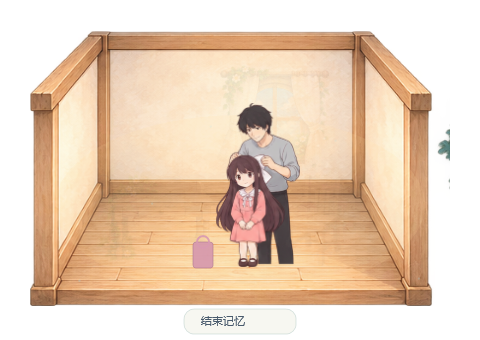
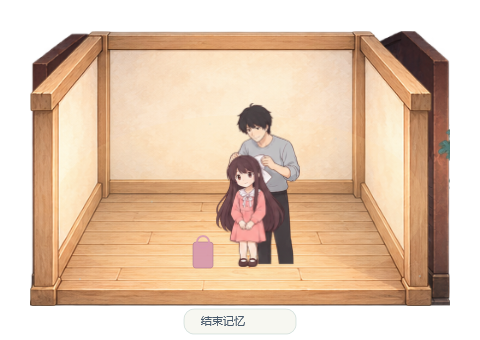
Restore preserved v0.2.0-preview.2 local source snapshot for archival publication
Recovered on 2026-10-15 from the original source ZIP. This is an archival recovery commit, not an original historical Git commit.
Original source ZIP SHA256: 5f0940a03c4b3eeb09e2c33b8816a2a0c285f2241c96ac19383efc8d4c0878ad
Original EXE SHA256: 53a71685884b109eb5de8730db801bb2e80471de90e8e03db09ad6dc27eb510f

diff --git a/src/Scene.cs b/src/Scene.cs
@@ -97,6 +97,10 @@ public sealed class ResourceManifest
     public string SwingAtlas { get; set; } = "rin/swing-life.png";
     public string FamilyAtlas { get; set; } = "rin/family-memory.png";
     public double[][] SceneRegions { get; set; } = Atlas.Grid(3,2);
+    public string BedroomAtlas { get; set; } = "world/bedroom.png";
+    public double[][] BedroomRegions { get; set; } = Atlas.Grid(3,2);
+    public double[] BedSeatAnchor { get; set; } = new[]{.48,.57};
+    public double[] BedroomWindowPane { get; set; } = new[]{.24,.035,.48,.91};
     public double[][] SwingRegions { get; set; } = Array.Empty<double[]>();
     public double[][] FamilyRegions { get; set; } = Array.Empty<double[]>();
     public double[][] SwingHips { get; set; } = Array.Empty<double[]>();
@@ -200,13 +204,13 @@ public sealed partial class Scene : FrameworkElement
         actorHits.Clear(); lifeHits.Clear(); doorRect=Rect.Empty;
         string theme = World.Theme(save.Settings, DateTime.Now.Hour);
         bool night = theme is "夜晚" or "深夜";
-        bool ideal = save.SceneId == "outdoor" && Time < IdealUntil && !behavior.Life.Active;
+        bool ideal = save.SceneId is "outdoor" or "cloud" && Time < IdealUntil && !behavior.Life.Active;
         var layout = ideal ? ObjectDef.All.Select(World.Default).ToList() : save.Layout.Where(p => !p.Hidden).ToList();
         foreach (var p in layout.OrderBy(p => Scenes.Foundation(p.Id) ? -3 : p.Id is "grass" ? -2 : p.Id is "path" ? -1 : 0))
         {
             if (!ideal && !World.Available(save).Any(d => d.Id == p.Id)) continue;
             var d = ObjectDef.Get(p.Id); if (p.Id == "swingSeat") continue;
-            var sprite = p.Id == "bigTree" ? matureTree.Sprites[0] : Scenes.ExtraObjects.Any(e=>e.Id == p.Id) ? environments.Sprites[d.Tile] : world.Sprites[d.Tile];
+            var sprite = ObjectSprite(d);
             double ox = 0, oy = 0, angle = 0;
             if (p.Id == "cloud") ox = Math.Sin(Time * .13) * 8;
             if (p.Id == "bird") { ox = Math.Sin(Time * .65) * 14; oy = Math.Sin(Time * 1.2) * 3; }
@@ -221,13 +225,15 @@ public sealed partial class Scene : FrameworkElement
             if (p.Id is "platform" or "grass" or "path" or "meadowBase" or "roomBase" or "bigTree") { width = d.Width; height = d.Height; }
             var rect = new Rect(p.X - width / 2 + ox, p.Y - height + oy, width, height);
             double appear = births.TryGetValue(p.Id, out var born) ? Math.Clamp((Time - born) / 2.5, 0, 1) : 1;
-            double visibleOpacity=appear*(save.SceneId == "indoor" && !Scenes.Foundation(p.Id) ? 1-.9*behavior.Life.Atmosphere : 1);
+            double visibleOpacity=appear*(save.SceneId == "indoor" && !Scenes.Foundation(p.Id) ? 1-behavior.Life.Atmosphere : 1);
             dc.PushOpacity(visibleOpacity);
             dc.PushTransform(new ScaleTransform(.85 + .15 * appear, .85 + .15 * appear, p.X, p.Y));
             dc.PushTransform(new RotateTransform(angle, p.X, p.Y));
             if (p.Id == "stars") dc.PushOpacity(night || ideal || audio.IsShelter ? .95 : .28);
             else dc.PushOpacity(theme == "深夜" ? .7 : night ? .79 : 1);
-            dc.DrawImage(sprite.Image, rect); dc.Pop(); dc.Pop(); dc.Pop(); dc.Pop(); if (visibleOpacity > .5) hits[p.Id] = (rect, sprite);
+            dc.DrawImage(sprite.Image, rect);
+            if (p.Id == "roomBase" && behavior.Life.Atmosphere > 0) { dc.PushOpacity(behavior.Life.Atmosphere); dc.DrawImage(environments.Sprites[1].Image,rect); dc.Pop(); }
+            dc.Pop(); dc.Pop(); dc.Pop(); dc.Pop(); if (visibleOpacity > .5) hits[p.Id] = (rect, sprite);
             if (p.Id == "house" && save.SceneId == "outdoor") doorRect=new Rect(rect.X+rect.Width*.26,rect.Y+rect.Height*.52,rect.Width*.15,rect.Height*.39);
             if (p.Id is "lamp" or "house" && (night || theme == "傍晚" || FeedbackObject == p.Id && Time < FeedbackUntil))
             {
@@ -300,10 +306,11 @@ public sealed partial class Scene : FrameworkElement
             // wooden seat rather than aligning her sandals with the chair legs.
             if (action.Id is "benchSit" or "roomRest" && (Time < IdealUntil || save.Layout.Any(p=>p.Id == action.ObjectId && !p.Hidden) && World.Available(save).Any(d=>d.Id == action.ObjectId)))
             {
-                var bench=ObjectDef.Get(action.ObjectId!); var image=action.Id == "roomRest" ? environments.Sprites[bench.Tile] : world.Sprites[bench.Tile];
+                var bench=ObjectDef.Get(action.ObjectId!); var image=ObjectSprite(bench);
                 double k=Math.Min(bench.Width/image.Width,bench.Height/image.Height);
-                double seatX=behavior.X+image.Width*k*(manifest.BenchSeatAnchor[0]-.5);
-                double seatY=behavior.Y-image.Height*k*(1-(action.Id == "roomRest" ? .59 : manifest.BenchSeatAnchor[1]));
+                var seatAnchor=action.Id == "roomRest" ? manifest.BedSeatAnchor : manifest.BenchSeatAnchor;
+                double seatX=behavior.X+image.Width*k*(seatAnchor[0]-.5);
+                double seatY=behavior.Y-image.Height*k*(1-seatAnchor[1]);
                 rect=new Rect(seatX-rect.Width*manifest.SeatedContactAnchor[0],seatY-rect.Height*manifest.SeatedContactAnchor[1],rect.Width,rect.Height);
             }
         }
@@ -388,7 +395,8 @@ public sealed partial class Scene : FrameworkElement
         if (indoors) {
             if (!hits.TryGetValue("window",out var window)) return;
             var r=window.Rect;
-            dc.PushClip(new RectangleGeometry(new Rect(r.X+r.Width*.28,r.Y+r.Height*.26,r.Width*.44,r.Height*.51)));
+            var pane=manifest.BedroomWindowPane;
+            dc.PushClip(new RectangleGeometry(new Rect(r.X+r.Width*pane[0],r.Y+r.Height*pane[1],r.Width*pane[2],r.Height*pane[3])));
         }
         switch (save.Settings.Weather)
         {

diff --git a/tests/SceneTests.cs b/tests/SceneTests.cs
@@ -10,7 +10,7 @@ foreach (var d in Scenes.All.Where(d=>d.Day > 0)) {
     Check(s.GrowthLayout.Count == 1 && s.Created.Count == 0,"解锁场景不覆盖屋外布局或强制创造");
 }
 var save=WithDays(20); var outdoor=save.GrowthLayout[0]; outdoor.X=154;
-foreach (var d in Scenes.All.Where(d=>d.Id != "outdoor")) {
+foreach (var d in Scenes.All.Where(d=>d.Id is not "outdoor" and not "cloud")) {
     Scenes.Switch(save,d.Id); var p=save.Layout.First(p=>!Scenes.Foundation(p.Id)); p.X=410; p.Hidden=true;
     save.Settings.FreeMode=true; Scenes.Switch(save,d.Id); Check(save.Layout.Any(p=>p.X != 410 && !p.Hidden),d.Name+"自由布局独立");
     save.Settings.FreeMode=false; Check(save.Layout.Any(p=>p.X == 410 && p.Hidden),d.Name+"成长布局原样恢复");
@@ -19,6 +19,16 @@ Scenes.Switch(save,"outdoor"); Check(save.Layout[0].X == 154,"切回屋外保留
 save.Settings.FreeMode=true; Scenes.Switch(save,"swingTree"); save.Settings.FreeMode=false; Check(save.SceneId == "outdoor","两模式当前场景独立保存");
 Check(!Scenes.MemoriesUnlocked(WithDays(19)) && Scenes.MemoriesUnlocked(WithDays(20)),"父女记忆在秋千节点同时解锁");
 var free=WithDays(0); free.Settings.FreeMode=true; foreach (var d in Scenes.All) Check(Scenes.Switch(free,d.Id),"自由模式开放"+d.Name);
+foreach(int days in new[]{0,1,2,6,7,9,10,19,20}) {
+    var fresh=WithDays(days);
+    var ids=Scenes.All.Where(d=>Scenes.Unlocked(fresh,d.Id)).Select(d=>d.Id).ToArray();
+    var expected=days>=20 ? new[]{"cloud","indoor","outdoor","meadow","swingTree"} : days>=10 ? new[]{"cloud","indoor","outdoor","meadow"} : days>=7 ? new[]{"cloud","indoor","outdoor"} : days>=2 ? new[]{"cloud","indoor"} : new[]{"cloud"};
+    Check(ids.SequenceEqual(expected),days+"日依次开放云台/屋内/院子/室外/秋千");
+    Check(fresh.SceneId == "cloud","解锁新场景不强制切换");
+}
+var early=WithDays(2); Check(Scenes.Switch(early,"indoor") && World.Available(early).Count() == 5,"第2日卧室家具全部可见");
+Scenes.Switch(early,"cloud"); Check(World.Available(early).Single().Id == "platform","云台阶段不混入院子景物");
+early.Layout[0].X=87; early.Settings.FreeMode=true; Scenes.Switch(early,"cloud"); Check(early.Layout[0].X == 240,"云台两模式布局独立"); early.Settings.FreeMode=false; Check(early.Layout[0].X == 87,"成长云台位置恢复");
 void Advance(Behavior b,double seconds,SaveData s) { for(double t=0;t<seconds;t+=.01) b.Tick(Math.Min(.01,seconds-t),s,false); }
 void Until(Behavior b,string phase,SaveData s) { for(int i=0;i<12000 && b.Life.Phase != phase;i++) b.Tick(.01,s,false); Check(b.Life.Phase == phase,"时间轴到达 "+phase); }
 Scenes.Switch(save,"swingTree"); var layout=JsonSerializer.Serialize(save.Layout);
@@ -55,6 +65,13 @@ try {
     string legacy="{\"Version\":1,\"Settings\":{},\"GrowthLayout\":[{\"Id\":\"platform\",\"X\":154,\"Y\":300}],\"FreeLayout\":[{\"Id\":\"house\",\"X\":77,\"Y\":240,\"Hidden\":true}],\"CompanionDates\":[\"2026-01-01\"]}";
     Directory.CreateDirectory(directory); File.WriteAllText(storage.FilePath,legacy); var migrated=storage.Load();
     Check(migrated.Days == 1 && migrated.GrowthLayout[0].X == 154 && migrated.FreeLayout[0].Hidden,"旧JSON完整保留成长与两布局");
+    Check(migrated.SceneId == "outdoor" && Scenes.Unlocked(migrated,"outdoor"),"旧版提前院子访问权保留");
+    var oldRoom=WithDays(2); oldRoom.GrowthSceneLayouts["indoor"]=new(){new(){Id="roomBase",X=240,Y=306},new(){Id="desk",X=411,Y=215,Hidden=true},new(){Id="window",X=275,Y=168},new(){Id="chair",X=313,Y=266},new(){Id="lamp",X=109,Y=248,Hidden=true}}; oldRoom.IndoorStyleVersion=0;
+    Scenes.Switch(oldRoom,"indoor"); storage.Write(oldRoom); var upgrade=storage.Load(); var table=upgrade.Layout.First(p=>p.Id == "desk");
+    Check(table.X == 411 && table.Y == 215 && table.Hidden,"重绘卧室保留自定义位置与隐藏状态");
+    Check(upgrade.Layout.Any(p=>p.Id == "chair" && p.X == 166 && p.Y == 279),"旧默认木椅位置迁移为床铺布局");
+    Check(upgrade.Layout.Any(p=>p.Id == "lamp" && p.Hidden) && !World.Available(upgrade).Any(d=>d.Id == "lamp"),"旧灯布置保留但不混入原片卧室");
+    var roomSnapshot=JsonSerializer.Serialize(upgrade.Layout); World.Initialize(upgrade); Check(JsonSerializer.Serialize(upgrade.Layout) == roomSnapshot,"卧室迁移仅执行一次");
     storage.Write(save); var reloaded=storage.Load(); Check(reloaded.SceneId == save.SceneId && JsonSerializer.Serialize(reloaded.Layout) == JsonSerializer.Serialize(save.Layout),"新多场景存档往返");
     storage.Write(save); File.WriteAllText(storage.FilePath,"{broken"); Check(storage.Load().SceneId == save.SceneId,"多场景备份恢复");
 } finally { Directory.Delete(directory,true); }

diff --git a/src/Scenes.cs b/src/Scenes.cs
@@ -3,19 +3,20 @@ namespace LittleShelter;
 public sealed record SceneDef(string Id, string Name, int Day);
 public static class Scenes
 {
-    public static readonly SceneDef[] All = { new("outdoor","屋外",0), new("meadow","草坡",10), new("indoor","屋内",14), new("swingTree","树下秋千",20) };
+    public static readonly SceneDef[] All = { new("cloud","云台",0), new("indoor","屋内",2), new("outdoor","屋外院子",7), new("meadow","室外草坡",10), new("swingTree","树下秋千",20) };
     public static readonly ObjectDef[] ExtraObjects = {
-        new("meadowBase","草坡",10,0,420,125,240,305), new("roomBase","房间",14,1,420,275,240,306),
-        new("bigTree","树荫",20,2,420,278,240,304), new("desk","桌子",14,3,125,87,160,261),
-        new("window","窗户",14,4,116,118,275,168), new("chair","木椅",14,5,67,91,313,266),
+        new("meadowBase","草坡",10,0,420,125,240,305), new("roomBase","卧室",2,1,420,275,240,306),
+        new("bigTree","树荫",20,2,420,278,240,304), new("desk","床边圆几",2,3,54,60,274,278),
+        new("window","高窗",2,4,94,154,106,190), new("chair","粉色床铺",2,5,181,123,166,279),
+        new("cabinet","柜子与小熊",2,6,79,125,358,273),
         new("swingSeat","木座秋千",20,-1,65,8,300,260)
     };
-    public static bool Unlocked(SaveData s,string id) => All.Any(d=>d.Id == id && (s.Settings.FreeMode || s.Days >= d.Day));
+    public static bool Unlocked(SaveData s,string id) => All.Any(d=>d.Id == id && (s.Settings.FreeMode || s.Days >= d.Day || id == "outdoor" && s.Settings.LegacyOutdoorAccess));
     public static bool MemoriesUnlocked(SaveData s) => s.Settings.FreeMode || s.Days >= 20;
-    public static string Current(SaveData s) { var id=s.Settings.FreeMode ? s.Settings.FreeScene : s.Settings.GrowthScene; return Unlocked(s,id) ? id : "outdoor"; }
+    public static string Current(SaveData s) { var id=s.Settings.FreeMode ? s.Settings.FreeScene : s.Settings.GrowthScene; return Unlocked(s,id) ? id : "cloud"; }
     public static IEnumerable<ObjectDef> Objects(string id) => id switch {
-        "meadow" => Pick("meadowBase","flower","cloud","bird","stars"),
-        "indoor" => Pick("roomBase","desk","window","chair","lamp"),
+        "cloud" => Pick("platform"), "meadow" => Pick("meadowBase","flower","cloud","bird","stars"),
+        "indoor" => Pick("roomBase","desk","window","chair","cabinet"),
         "swingTree" => Pick("bigTree","swingSeat","flower","bird","stars"), _ => ObjectDef.All };
     private static IEnumerable<ObjectDef> Pick(params string[] ids) => ids.Select(ObjectDef.Get);
     public static bool Foundation(string id) => id is "platform" or "meadowBase" or "roomBase" or "bigTree" or "swingSeat";
@@ -43,10 +44,20 @@ public static class Scenes
     }).ToList();
     public static void Initialize(SaveData s) {
         s.GrowthSceneLayouts ??= new(); s.FreeSceneLayouts ??= new();
+        if (s.IndoorStyleVersion < 1) {
+            foreach(var map in new[]{s.GrowthSceneLayouts,s.FreeSceneLayouts}) if (map.TryGetValue("indoor",out var room)) {
+                foreach(var p in room) {
+                    var old=p.Id switch { "desk"=>(160,261), "window"=>(275,168), "chair"=>(313,266), _=>(-1,-1) };
+                    if (p.X == old.Item1 && p.Y == old.Item2) { var d=ObjectDef.Get(p.Id); p.X=d.X; p.Y=d.Y; }
+                }
+            }
+            s.IndoorStyleVersion=1;
+        }
         foreach (var d in All.Where(d=>d.Id != "outdoor")) {
             if (!s.FreeSceneLayouts.ContainsKey(d.Id)) s.FreeSceneLayouts[d.Id]=Defaults(d.Id);
             if (s.Days >= d.Day && !s.GrowthSceneLayouts.ContainsKey(d.Id)) s.GrowthSceneLayouts[d.Id]=Defaults(d.Id);
         }
+        foreach(var map in new[]{s.GrowthSceneLayouts,s.FreeSceneLayouts}) if (map.TryGetValue("indoor",out var room) && !room.Any(p=>p.Id == "cabinet")) room.Add(World.Default(ObjectDef.Get("cabinet")));
     }
     public static bool Switch(SaveData s,string id) {
         if (!Unlocked(s,id)) return false;

diff --git a/src/Storage.cs b/src/Storage.cs
@@ -20,6 +20,13 @@ public sealed class Storage
                 if (document.RootElement.ValueKind != JsonValueKind.Object || !document.RootElement.TryGetProperty("Version", out _)) continue;
                 var save = document.RootElement.Deserialize<SaveData>(Options);
                 if (save == null || save.Version != 1 || save.Settings == null || save.DailySeconds == null || save.CompanionDates == null || save.ChoiceCounts == null || save.GrowthLayout == null || save.FreeLayout == null || save.Created == null || save.GrowthLayout.Any(p => p == null) || save.FreeLayout.Any(p => p == null)) continue;
+                if (document.RootElement.TryGetProperty("Settings",out var oldSettings)) {
+                    bool hasScene=oldSettings.TryGetProperty("GrowthScene",out _);
+                    if (save.Settings.GrowthScene == "outdoor" || !hasScene) {
+                        save.Settings.LegacyOutdoorAccess=true;
+                        if (!hasScene) save.Settings.GrowthScene="outdoor";
+                    }
+                }
                 Sanitize(save); World.Initialize(save); return save;
             }
             catch (Exception e) when (e is IOException or JsonException or UnauthorizedAccessException) { }
@@ -52,7 +59,7 @@ public sealed class Storage
             {
                 if (!Scenes.All.Any(d=>d.Id == key && key != "outdoor") || map[key] == null) { map.Remove(key); continue; }
                 var list=map[key];
-                list.RemoveAll(p=>p == null || !Scenes.Objects(key).Any(d=>d.Id == p.Id) || !double.IsFinite(p.X) || !double.IsFinite(p.Y));
+                list.RemoveAll(p=>p == null || !(Scenes.Objects(key).Any(d=>d.Id == p.Id) || key == "indoor" && p.Id == "lamp") || !double.IsFinite(p.X) || !double.IsFinite(p.Y));
                 foreach (var p in list) { p.X=Math.Clamp(p.X,25,455); p.Y=Math.Clamp(p.Y,45,310); if (Scenes.Foundation(p.Id)) p.Hidden=false; }
                 foreach (var d in Scenes.Objects(key).Where(d=>Scenes.Foundation(d.Id))) if (!list.Any(p=>p.Id == d.Id)) list.Add(World.Default(d));
                 var distinct=list.DistinctBy(p=>p.Id).ToList(); list.Clear(); list.AddRange(distinct);
@@ -60,6 +67,6 @@ public sealed class Storage
         }
         CleanScenes(s.GrowthSceneLayouts); CleanScenes(s.FreeSceneLayouts);
         if (!Scenes.All.Any(d=>d.Id == s.Settings.FreeScene)) s.Settings.FreeScene="outdoor";
-        if (!Scenes.All.Any(d=>d.Id == s.Settings.GrowthScene && d.Day <= s.Days)) s.Settings.GrowthScene="outdoor";
+        if (!Scenes.Unlocked(s,s.Settings.GrowthScene)) s.Settings.GrowthScene="cloud";
     }
 }

diff --git a/tests/SceneVisualTests.cs b/tests/SceneVisualTests.cs
@@ -76,6 +76,19 @@ internal static class SceneVisualTests
         Check(actor.Life.BeginMemory(save),"memory while swinging"); Until("fadeOut"); Step(.7); Render("swing-recall-from-seated");
         Check(actor.Life.RecallPose>=100,"memory fade retains stopped loop pose"); actor.Life.Cancel(); Render("memory-cancel-restored");
         Scenes.Switch(save,"indoor"); scene.ResetLifeVisuals(); var chair=save.Layout.First(p=>p.Id == "chair"); actor.X=chair.X; actor.Y=chair.Y; actor.Start("roomRest"); Render(); Step(.5); Render("indoor-chair-rest");
+        var manifest=System.Text.Json.JsonSerializer.Deserialize<ResourceManifest>(File.ReadAllText(Path.Combine(AppContext.BaseDirectory,"assets/manifest.json")))!;
+        var bedroom=new Atlas(Path.Combine(AppContext.BaseDirectory,"assets",manifest.BedroomAtlas),manifest.BedroomRegions); var bed=bedroom.Sprites[1]; var bedDef=ObjectDef.Get("chair");
+        double bedScale=Math.Min(bedDef.Width/bed.Width,bedDef.Height/bed.Height);
+        double hipX=chair.X+bed.Width*bedScale*(manifest.BedSeatAnchor[0]-.5), hipY=chair.Y-bed.Height*bedScale*(1-manifest.BedSeatAnchor[1]);
+        foreach(bool mirror in new[]{false,true}) foreach(double dpi in new[]{1.0,1.5,2.0}) {
+            actor.Start("roomRest",chair.X+(mirror ? -1 : 1)); scene.ResetLifeVisuals(); Render(); Step(.4);
+            var frame=Render("bed-rest-"+mirror+"-"+dpi.ToString("0.0",System.Globalization.CultureInfo.InvariantCulture),dpi);
+            Check(scene.Hit(new Point(hipX,hipY-12)) == "rin","bed mattress hip registration and alpha hit");
+            byte[] pixel=new byte[4]; frame.CopyPixels(new Int32Rect((int)(hipX*dpi),(int)((hipY-12)*dpi),1,1),pixel,4,0); Check(pixel[3]>=240,"bed rest remains opaque at mattress contact");
+        }
+        Scenes.Switch(save,"cloud"); actor.Life.Cancel(); Scenes.PlaceActor(save,actor); actor.Start("stand"); scene.ResetLifeVisuals(); var cloudLayout=System.Text.Json.JsonSerializer.Serialize(save.Layout);
+        scene.IdealUntil=time+5; Render("cloud-ideal"); Check(System.Text.Json.JsonSerializer.Serialize(save.Layout) == cloudLayout,"cloud ideal never overwrites initial layout");
+        scene.IdealUntil=0; Render("cloud-restored"); Check(save.Layout.Single().Id == "platform","cloud ideal restores only its platform");
         Console.WriteLine("PASS: "+checks+" production scene render/rope/contact/cancel/DPI checks. "+output);
     }
 }

diff --git a/src/SceneLife.cs b/src/SceneLife.cs
@@ -7,7 +7,7 @@ namespace LittleShelter;
 
 public sealed partial class Scene
 {
-    private Atlas environments=null!, swingPoses=null!, familyPoses=null!, matureTree=null!, swingLoop=null!;
+    private Atlas environments=null!, bedroom=null!, swingPoses=null!, familyPoses=null!, matureTree=null!, swingLoop=null!;
     private readonly List<(Rect Rect,Atlas.Sprite Sprite,Transform Transform,double Hinge,double LegShear)> lifeHits=new();
     private Rect doorRect=Rect.Empty, memoryControl=Rect.Empty, seatHit=Rect.Empty;
     private Transform? seatTransform;
@@ -18,6 +18,8 @@ public sealed partial class Scene
     private void LoadLifeAssets(string root)
     {
         environments=new Atlas(Path.Combine(root,manifest.ScenesAtlas),manifest.SceneRegions);
+        bedroom=new Atlas(Path.Combine(root,manifest.BedroomAtlas),manifest.BedroomRegions);
+        if (bedroom.Sprites.Length != 5) throw new InvalidDataException("卧室资源不完整");
         matureTree=new Atlas(Path.Combine(root,"world/swing-tree.png"),Atlas.Grid(1,1));
         swingPoses=new Atlas(Path.Combine(root,manifest.SwingAtlas),manifest.SwingRegions);
         familyPoses=new Atlas(Path.Combine(root,manifest.FamilyAtlas),manifest.FamilyRegions);
@@ -26,6 +28,11 @@ public sealed partial class Scene
             throw new InvalidDataException("秋千/父女记忆姿势与锚点不完整");
         if (swingLoop.Sprites.Length != 18 || manifest.LoopHips.Length != 18 || manifest.LoopHands.Length != 18) throw new InvalidDataException("细化摆荡帧不完整");
     }
+    private Atlas.Sprite ObjectSprite(ObjectDef d) => d.Id switch {
+        "bigTree"=>matureTree.Sprites[0], "roomBase"=>bedroom.Sprites[0], "chair"=>bedroom.Sprites[1],
+        "window"=>bedroom.Sprites[2], "desk"=>bedroom.Sprites[3], "cabinet"=>bedroom.Sprites[4],
+        _=>Scenes.ExtraObjects.Any(e=>e.Id == d.Id) ? environments.Sprites[d.Tile] : world.Sprites[d.Tile]
+    };
     public void ResetLifeVisuals()
     {
         lastDrawKey=null; lastDrawSprite=null; oldDrawSprite=null;

diff --git a/src/Models.cs b/src/Models.cs
@@ -18,8 +18,9 @@ public sealed class Settings
     public double Left { get; set; } = double.NaN;
     public double Top { get; set; } = double.NaN;
     public double InteractionMinutes { get; set; } = 35;
-    public string GrowthScene { get; set; } = "outdoor";
+    public string GrowthScene { get; set; } = "cloud";
     public string FreeScene { get; set; } = "outdoor";
+    public bool LegacyOutdoorAccess { get; set; }
 }
 
 public sealed class Placement
@@ -45,6 +46,7 @@ public sealed class SaveData
     public HashSet<string> Created { get; set; } = new();
     public long Interactions { get; set; }
     public double MusicSeconds { get; set; }
+    public int IndoorStyleVersion { get; set; }
     [JsonIgnore] public int Days => CompanionDates.Count;
     [JsonIgnore] public string SceneId => Scenes.Current(this);
     [JsonIgnore] public List<Placement> Layout => Scenes.Layout(this);
@@ -100,7 +102,7 @@ public static class Actions
         new("swingLife", "树下轻荡秋千", 0, 34, "special", "swingSeat"),
         new("windowWatch", "窗边看天气", 2, 18, "context", "window"),
         new("deskTablet", "桌边使用平板", 4, 20, "context", "desk"),
-        new("roomRest", "屋内坐着休息", 7, 22, "context", "chair")
+        new("roomRest", "床沿安静休息", 7, 22, "context", "chair")
     };
     public static ActionDef Get(string id) => All.First(a => a.Id == id);
 }

diff --git a/scripts/register-scenes.py b/scripts/register-scenes.py
@@ -23,4 +23,8 @@ m['LoopAtlas']='rin/swing-loop.png'
 m['LoopRegions']=[[loopcols[c]/1536,looprows[r]/1024,(loopcols[c+1]-loopcols[c])/1536,(looprows[r+1]-looprows[r])/1024] for r in range(1,4) for c in range(6)]
 m['LoopHips']=[[x-loopcols[c],y-looprows[r]] for r,y in enumerate([0,445,708,962]) if r>0 for c,x in enumerate([126,380,633,887,1142,1398])]
 m['LoopHands']=[[x-loopcols[c],y-looprows[r],x+98-loopcols[c],y-looprows[r]] for r,y in enumerate([0,369,637,885]) if r>0 for c,x in enumerate([76,329,583,837,1093,1347])]
+m['BedroomAtlas']='world/bedroom.png'
+m['BedroomRegions']=[[x/1536,y/1024,w/1536,h/1024] for x,y,w,h in [[0,0,666,512],[666,0,519,512],[1185,0,351,512],[0,512,575,512],[575,512,365,512]]]
+m['BedSeatAnchor']=[.48,.57]
+m['BedroomWindowPane']=[.24,.035,.48,.91]
 path.write_text(json.dumps(m,ensure_ascii=False,indent=2)+'\n',encoding='utf-8')

diff --git a/src/PetWindow.cs b/src/PetWindow.cs
@@ -208,7 +208,7 @@ public sealed class PetWindow : Window
         if (!World.Available(Save).Any(d=>d.Id == id)) return;
         Behavior.Create(id, Audio.Level > .12); Scene.ChoiceUntil = 0;
     }
-    public void ShowIdeal() { if (Behavior.Life.Active || Save.SceneId != "outdoor") return; Scene.IdealUntil = runtime + 45; Scene.ShelterUntil = runtime + 55; Behavior.Start("knees"); Scene.Bubble = "这里有我们的天空。"; Scene.BubbleUntil = runtime + 6; }
+    public void ShowIdeal() { if (Behavior.Life.Active || Save.SceneId is not "outdoor" and not "cloud") return; Scene.IdealUntil = runtime + 45; Scene.ShelterUntil = runtime + 55; Behavior.Start("knees"); Scene.Bubble = "这里有我们的天空。"; Scene.BubbleUntil = runtime + 6; }
     public void PreviewAction(string id)
     {
         if (id is "swingLife" or "ropeHold") { Swing(); return; }

diff --git a/tests/Program.cs b/tests/Program.cs
@@ -24,6 +24,7 @@ Check(save.DailySeconds["2026-10-11"] == 1 && save.DailySeconds["2026-10-10"] ==
 foreach (int day in new[] { 2, 3, 5, 7, 10, 14, 20 })
 {
     var s = new SaveData { CompanionDates = Enumerable.Range(0, day).Select(i => start.AddDays(i).ToString("yyyy-MM-dd")).ToList() }; World.Initialize(s);
+    s.Settings.LegacyOutdoorAccess=true; Scenes.Switch(s,"outdoor"); // existing yard item schedule remains compatible
     Check(World.Available(s).All(d => d.Day <= day) && World.Available(s).Any(d => d.Day == day), "第" + day + "天的解锁边界");
 }
 save.Settings.FreeMode = true; World.Create(save, "house"); save.FreeLayout.First(p => p.Id == "house").X = 42;

diff --git a/tests/VisualTests.cs b/tests/VisualTests.cs
@@ -135,6 +135,7 @@ internal static class VisualTests
         {
             var save=new SaveData(); save.Settings.FreeMode=free; save.Settings.Music=false; save.Settings.Theme="白天";
             save.CompanionDates.AddRange(Enumerable.Range(1,7).Select(d=>$"2026-09-{d:00}")); World.Initialize(save);
+            Scenes.Switch(save,"outdoor");
             save.Layout.Clear(); var bench=World.Default(ObjectDef.Get("bench")); save.Layout.Add(bench);
             // Deliberately move the chair away from its default location.
             bench.X=mirror ? 205 : 325; bench.Y=mirror ? 263 : 246;

diff --git a/docs/开发说明.md b/docs/开发说明.md
@@ -4,7 +4,7 @@
 
 ### 2026-10-12 多场景扩展
 
-`Scenes.cs` 定义四场景、10/14/20日门槛、各自物件与默认布置；成长/自由模式各自保存当前场景。旧 `GrowthLayout` / `FreeLayout` 继续专门表示屋外，新增 `GrowthSceneLayouts` / `FreeSceneLayouts` 字典表示其余场景。存档仍为版本1的兼容增量字段：旧JSON可直接读取，不重置成长、位置或屋外布置。场景字典读取时清理异常数值、未知ID及重复物件，并修复永久场所。
+`Scenes.cs` 定义五个阶段场景、0/2/7/10/20日门槛、各自物件与默认布置；成长/自由模式各自保存当前场景。旧 `GrowthLayout` / `FreeLayout` 继续专门表示屋外，新增 `GrowthSceneLayouts` / `FreeSceneLayouts` 字典表示其余场景。存档仍为版本1的兼容增量字段：旧JSON可直接读取，不重置成长、位置或屋外布置。场景字典读取时清理异常数值、未知ID及重复物件，并修复永久场所。
 
 `LifeSequence` 由 `Behavior` 唯一调度，负责真实步行接近、扶绳、坐下、4.6秒轻荡、2秒减幅、起身与离开，以及25秒记忆故事。隐藏、暂停、全屏、锁屏时不推进绘图时间轴；没有独立定时器与普通行为争夺角色。记忆、切换和拖动的中断通过同一实例取消，暂存位置不进入存档。
 
@@ -14,7 +14,7 @@
 
 资源及准确提示词见[多场景素材制作](多场景素材制作.md)。`scripts/register-scenes.py` 登记非均等裁切和锚点，运行时和正常构建读取已交付清单，不依赖Python。新增 `SceneTests` 覆盖迁移、隔离、门槛、退出与恢复；`SceneVisualTests` 使用真实生产Scene绘图检查DPI、固定绳端、手握对应、臀部命中与记忆过渡。
 
-诊断增加 `--scene outdoor|meadow|indoor|swingTree` 与 `--memory`。配合 `--showcase --data-dir output/独立存档 --no-audio` 可预览全部场景，不接触正常存档；`--action swingLife` 可预览完整秋千链。窗口和音频接口沿用原实现。
+诊断增加 `--scene cloud|indoor|outdoor|meadow|swingTree` 与 `--memory`。配合 `--showcase --data-dir output/独立存档 --no-audio` 可预览全部场景，不接触正常存档；`--action swingLife` 可预览完整秋千链。窗口和音频接口沿用原实现。
 
 项目采用 .NET 10 / WPF，目标 `net10.0-windows10.0.19041.0`。NAudio 固定为3.1.0，NuGet依赖由 `packages.lock.json` 记录。
 
@@ -29,11 +29,15 @@
 
 显示帧率上限默认60、节能30，使用WPF呈现时间节流，动作使用实际经过时间。实际帧率仍受显示器刷新率和系统负载影响。隐藏、锁屏、暂停时停止动画绘制；陪伴计时单独每秒执行。
 
+新增日常卧室读取 `BedroomAtlas/BedroomRegions`；旧环境图的木房间仅作幼年记忆临时背景。`chair` ID兼容地映射为床，`desk`映射为圆几，`cabinet`为新物件；床沿用 `BedSeatAnchor` 配准，高窗天气按 `BedroomWindowPane` 裁切。
+
+初始成长场景是 `cloud`，只含平台并独立保存。旧JSON没有场景字段或已保存院子时保留 `LegacyOutdoorAccess`；新存档院子仍需7日。`IndoorStyleVersion=1` 标记一次性迁移：只调整旧默认坐标，保留自定义和隐藏状态；旧灯仍留在数据中，但不渲染到现在的卧室。
+
 ## 资源格式
 
 `assets/manifest.json` 指定姿势图集、步行图集、世界图集和归一化裁切区域。图集包含小跑、轻跃与转身；轻跃/转身另有每帧凉鞋锚点及站姿参考高度。生成图集不假设严格等分，避免坐姿、躺姿和长发跨格被裁掉。解码后裁去透明边距，保持人物缩放相对基准站姿一致。
 
-`assets/catalog.json` 是由 `scripts/export-catalog.ps1` 从生产定义导出的34组动作、19个景物及4个场景目录，记录姿势、时长、步行帧、锚点及alpha交互规则。运行时的权威调度定义在 `Models.cs` 和 `Scenes.cs`，目录用于素材制作和核查，不另设一套行为调度。构建脚本会重新导出它。
+`assets/catalog.json` 是由 `scripts/export-catalog.ps1` 从生产定义导出的34组动作、20个景物及5个场景目录，记录姿势、时长、步行帧、锚点及alpha交互规则。运行时的权威调度定义在 `Models.cs` 和 `Scenes.cs`，目录用于素材制作和核查，不另设一套行为调度。构建脚本会重新导出它。
 
 保留12个基础关键姿势、8个步行帧、8个小跑帧、12个轻跃姿势、12个转身姿势和12个屋外景物；新增20格秋千起坐姿势、18格摆荡姿势、16格父女资源和场景素材。34组动作由姿势、时序、移动路径、场景锚点和特效组合实现，可在对应场景的动作页预览；它们并非34段完全独立的逐帧动画。这里使用二维图集和分层关键帧，没有Live2D模型文件。
 
@@ -71,13 +75,13 @@
 
 核心检查为无第三方测试框架的控制台项目。覆盖15分钟阈值、重复日期、跨日分割、锁屏/暂停/休眠、各成长节点、独立布局、不可提前创建、状态优先级、平滑移动及损坏存档恢复。
 
-画面检查调用生产 `Scene`，渲染34组动作、四场景、记忆、时间与天气变化，并在1.0/1.5/2.0 DPI下检查输出；遍历像素验证角色可命中、透明角落穿透。新增专属行为由 `SceneVisualTests` 驱动完整时间轴，不能用普通动作页绘图替代。
+画面检查调用生产 `Scene`，渲染34组动作、五场景、记忆、时间与天气变化，并在1.0/1.5/2.0 DPI下检查输出；遍历像素验证角色可命中、透明角落穿透。新增专属行为由 `SceneVisualTests` 驱动完整时间轴，不能用普通动作页绘图替代。
 
 系统声音响应与曲目识别是不同能力。曲目识别需要播放器提供Windows媒体信息；不提供时只能使用手动彩蛋。频段能量控制视觉变化，不推断歌曲内容或真实情绪。
 
 ## GitHub发布附件
 
-先运行 `scripts/build.ps1` 构建和检查，再运行 `scripts/package-release.ps1`。后者复用已构建EXE，生成 `dist/github/v0.1.0-preview.1` 下的便携ZIP、源码素材ZIP、SHA256与发布说明，不重新编译程序。修改版本时通过 `-Version` 指定，并先准备 `docs/releases/<版本>.md`。
+先运行 `scripts/build.ps1` 构建和检查，再运行 `scripts/package-release.ps1`。后者复用已构建EXE，生成 `dist/github/v0.2.0-preview.2` 下的便携ZIP、源码素材ZIP、SHA256与发布说明，不重新编译程序。修改版本时通过 `-Version` 指定，并先准备 `docs/releases/<版本>.md`。
 
 `scripts/release-files.ps1` 是公开源码文件清单。个人存档、本机日志和测试快照、工具链、构建输出、官网下载角色原图和私人桌面截图不包含在公开包里。运行素材、源码、检查和构建脚本保留。使用同一EXE重新整理文档不改变程序SHA256。
 
@@ -102,5 +106,3 @@
 移动时长由路程和移动类型决定，路径起止采用缓入缓出；逐帧相位由实际走过的距离推进，步行完整周期为36逻辑像素，小跑为52像素。到达长椅先用站姿停稳0.35秒，再进入坐姿。新交互会取消排队的坐下动作。
 
 动作切换保存实际上一帧素材、位置与朝向，交叉淡入0.25秒；从步行停止时不再直接替换成通用站立图。显式动作目录中的移动时长为参考值，运行时按实际路程确定。
-
-
